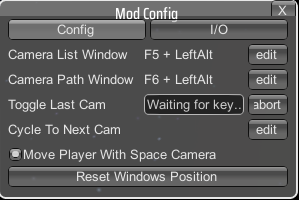
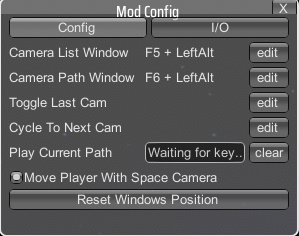
[CameraTools] v0.4.1

diff --git a/CameraTools/src/Plugin.cs b/CameraTools/src/Plugin.cs
@@ -16,7 +16,7 @@ namespace CameraTools
     {
         public const string GUID = "starfi5h.plugin.CameraTools";
         public const string NAME = "CameraTools";
-        public const string VERSION = "0.4.0";
+        public const string VERSION = "0.4.1";
 
         public static ManualLogSource Log;
         public static ConfigFile ConfigFile;
@@ -35,7 +35,7 @@ namespace CameraTools
                     }
                     else if (value == null && viewingPath == null) // View => No view
                     {
-                        if (ModConfig.MovePlayerWithSpaceCamera.Value)
+                        if (ModConfig.MovePlayerWithSpaceCamera.Value && lastPlayerUpos != VectorLF3.zero)
                             GameMain.mainPlayer.uPosition = lastPlayerUpos;
                     }
                 }

diff --git a/CameraTools/README.md b/CameraTools/README.md
@@ -82,6 +82,10 @@ It can be fixed by letting player move along with space camera in mod config.
 
 ## ChangeLogs
 
+#### v0.4.1
+- Add keybind `Play Current Path` to play/pause the current editing path.
+- "Hide GUI" now stop buildings highlight and overlay when playing the path.
+
 #### v0.4.0
 - Path: Add target for camera to look at.
 - Config `MovePlayerWithSpaceCamera` default value is now true. When stop viewing, the mecha will go back to the original position in space.
